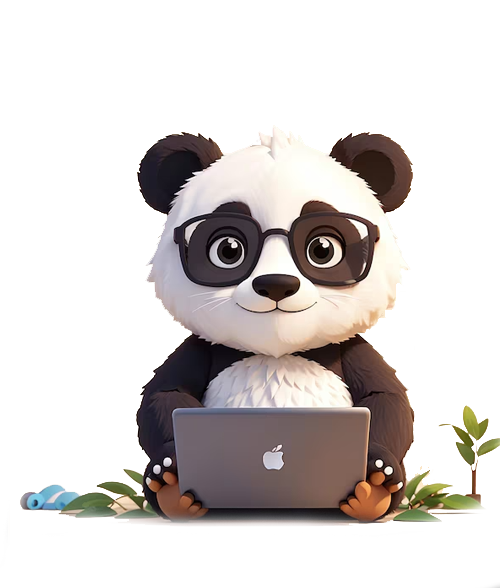
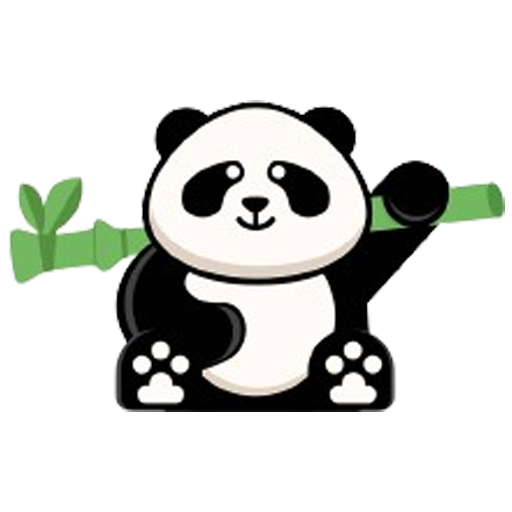
fix: grids in "trusted by"

diff --git a/src/app/(home)/components/image-grid.tsx b/src/app/(home)/components/image-grid.tsx
@@ -25,7 +25,7 @@ const images = [
 
 export default function ImageGrid() {
   return (
-    <div className="grid grid-cols-2 content-center place-items-center md:grid-cols-3 xl:grid-cols-5 gap-16">
+    <div className="grid grid-cols-2 place-items-center md:grid-cols-4 content-center items-center gap-6 md:gap-16">
       {images.map((image, index) => (
         <div key={index} className="flex flex-col items-center">
           <Image src={image.src} alt={image.alt} width={150} height={150} />

diff --git a/src/app/(home)/page.tsx b/src/app/(home)/page.tsx
@@ -66,7 +66,7 @@ export default async function Page() {
 
       <section className="bg-primary text-primary-foreground">
         <div className="container py-16 flex flex-col gap-16 px-8 md:px-16 items-center">
-          <h2 className="text-3xl text-center text-balance">
+          <h2 className="text-3xl font-bold text-center text-balance">
             {t("TRUSTED_BY")}
           </h2>
           <ImageGrid />